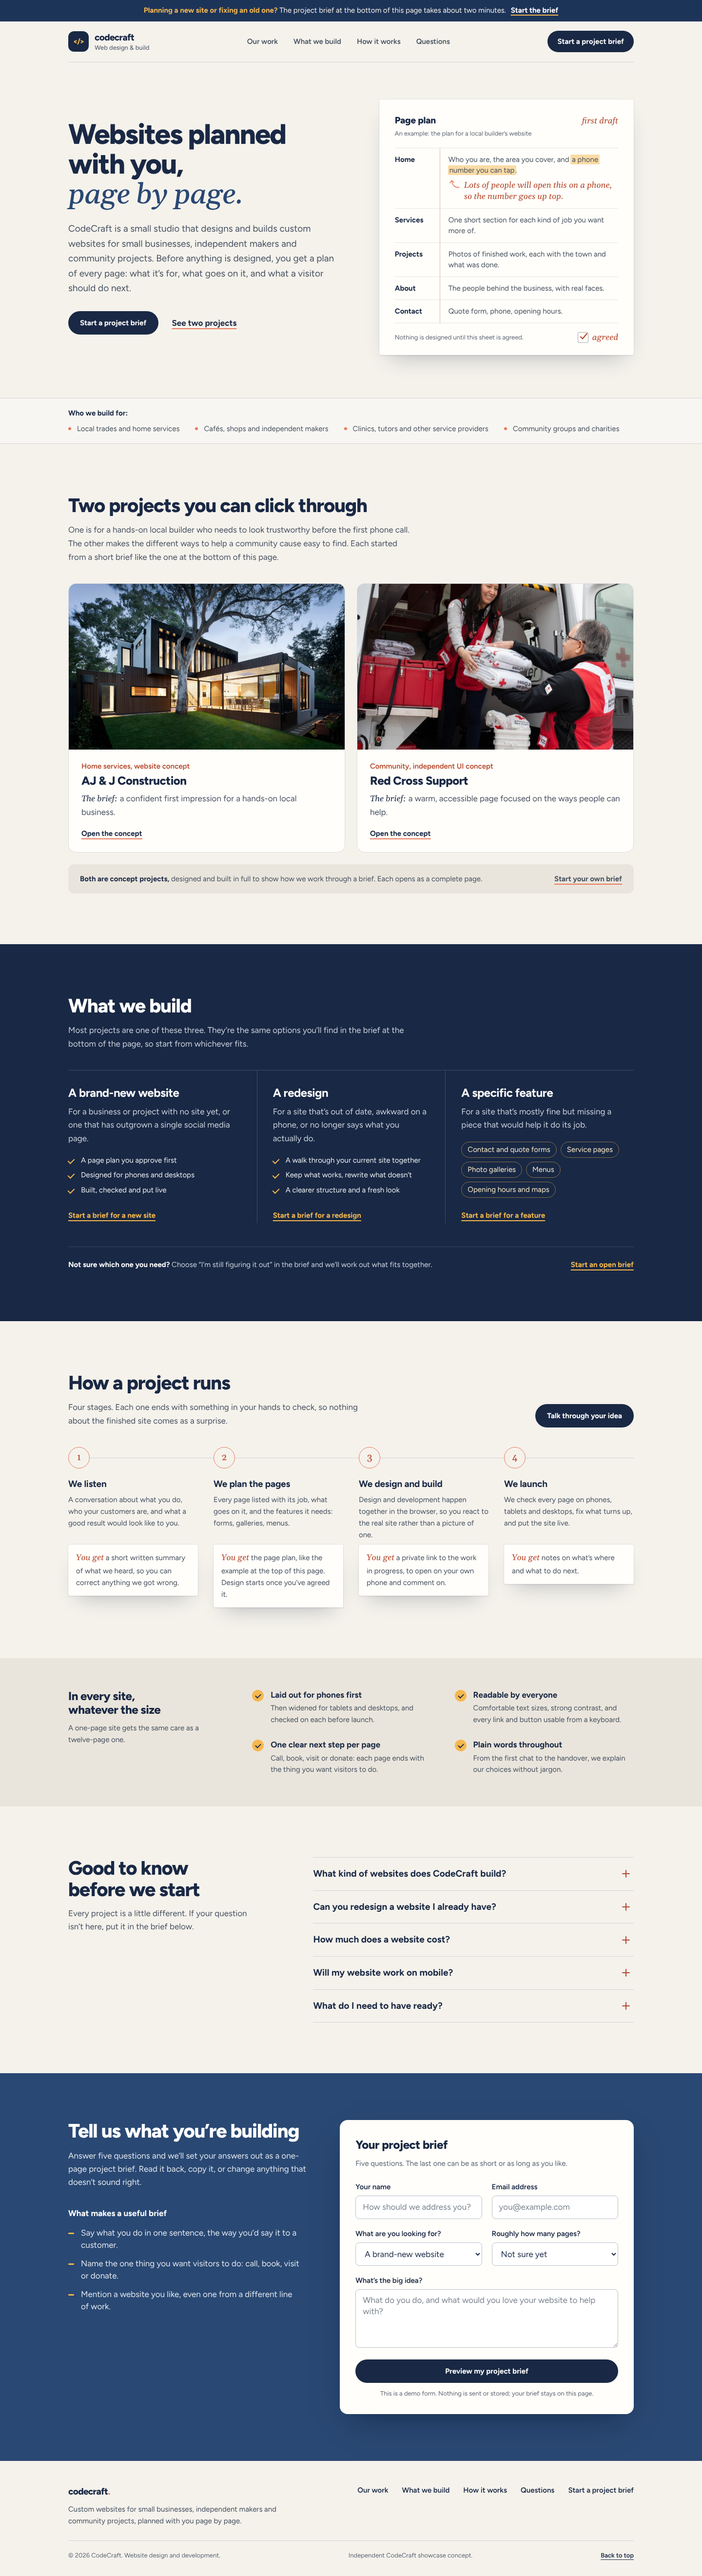
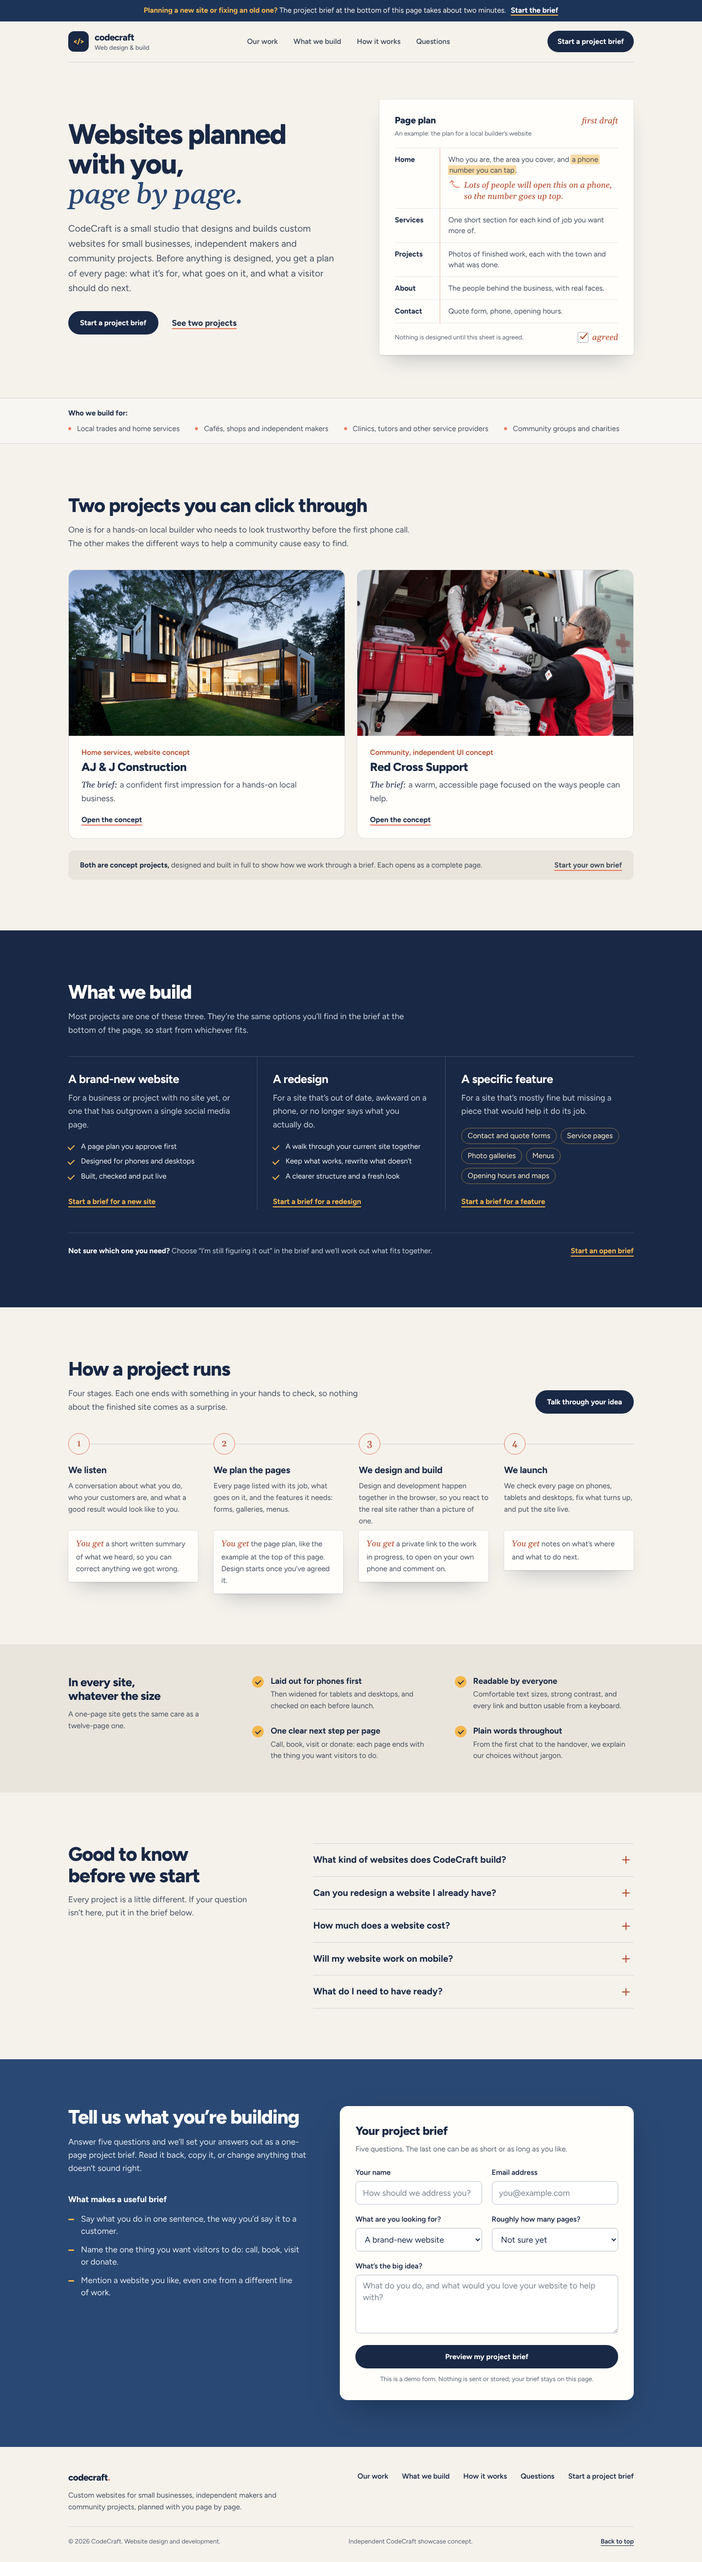
Add final skill v1.1 (Opus 5.5) output and renders for Scenario E
Claude-Session: https://claude.ai/code/session_01BhhYCwLB6o2ge2VEhVYyYB

diff --git a/evaluation/scenarios/A/skilled-v11-opus/index.html b/evaluation/scenarios/A/skilled-v11-opus/index.html
@@ -67,7 +67,7 @@ body{
 }
 a{color:inherit}
 p{margin:0}
-h1,h2,h3{margin:0;font-weight:600;font-stretch:118%;letter-spacing:-.015em;line-height:1.08}
+h1,h2,h3{margin:0;font-weight:600;font-stretch:118%;letter-spacing:-.015em;line-height:1.08;text-wrap:balance}
 .mono{font-family:var(--mono);font-stretch:87.5%;font-variant-numeric:tabular-nums}
 .num{font-variant-numeric:tabular-nums}
 .wrap{max-width:var(--wrap);margin:0 auto;padding:0 var(--gutter)}
@@ -86,8 +86,8 @@ h1,h2,h3{margin:0;font-weight:600;font-stretch:118%;letter-spacing:-.015em;line-
 .btn-primary{background:var(--accent);color:var(--accent-ink)}
 .btn-primary:hover{background:var(--accent-hover)}
 .btn-primary:active{background:#7bbcf0}
-.btn-line{border-color:#38404b;color:var(--text);background:transparent}
-.btn-line:hover{background:var(--raised);border-color:#4a5360}
+.btn-line{border-color:#4d5663;color:var(--text);background:transparent}
+.btn-line:hover{background:var(--raised);border-color:#67717d}
 .btn-line:active{background:var(--surface)}
 .btn-sm{min-height:40px;padding:0 16px}
 .textlink{text-decoration:underline;text-decoration-color:rgba(140,203,255,.6);text-underline-offset:4px;text-decoration-thickness:1px;transition:text-decoration-color .18s}
@@ -195,13 +195,13 @@ table.rules{width:100%;border-collapse:collapse;font-size:15px}
 .field{display:inline-flex;align-items:center;gap:8px;color:var(--muted)}
 .field input,.field select{
   font:inherit;font-family:var(--mono);font-stretch:87.5%;font-size:15px;color:var(--text);background:var(--bg);
-  border:1px solid #38404b;border-radius:4px;height:40px;padding:0 10px;transition:border-color .18s;
+  border:1px solid #67717d;border-radius:4px;height:40px;padding:0 10px;transition:border-color .18s;
 }
 .field input{width:96px;font-variant-numeric:tabular-nums;text-align:right}
 .field select{font-family:var(--display);font-stretch:100%;padding-right:30px;appearance:none;-webkit-appearance:none;
   background-image:linear-gradient(45deg,transparent 50%,var(--muted) 50%),linear-gradient(135deg,var(--muted) 50%,transparent 50%);
   background-position:right 14px top 17px,right 9px top 17px;background-size:5px 5px,5px 5px;background-repeat:no-repeat;min-width:140px}
-.field input:hover,.field select:hover{border-color:#4f5966}
+.field input:hover,.field select:hover{border-color:#8d97a3}
 .field input:focus-visible,.field select:focus-visible{outline:2px solid var(--accent);outline-offset:1px;border-color:var(--accent)}
 .field input[aria-invalid="true"]{border-color:var(--red)}
 .gauge{position:relative;height:6px;width:100%;min-width:140px;background:var(--raised);border-radius:2px;margin:6px 0 10px}
@@ -292,6 +292,22 @@ table.rules{width:100%;border-collapse:collapse;font-size:15px}
   .nav{gap:20px}
 }
 
+/* ---------- Alert rules restack (tablet and phone) ---------- */
+@media (max-width: 960px){
+  table.rules,table.rules tbody,table.rules tr,table.rules th,table.rules td{display:block}
+  table.rules thead{position:absolute;width:1px;height:1px;overflow:hidden;clip:rect(0 0 0 0)}
+  table.rules tr{display:grid;grid-template-columns:1fr 1fr;gap:14px 32px;padding:20px 24px;border-bottom:1px solid var(--line-soft)}
+  table.rules tbody tr:last-child{border-bottom:0}
+  .rules th,.rules td{padding:0;border:0}
+  .rules td.c-p95{text-align:right}
+  .rules td.c-thr .field,.rules td.c-dest .field{display:flex;justify-content:space-between;width:100%}
+  .rules td.c-thr .field::before{content:"Alert when p95 is above";color:var(--muted);margin-right:auto}
+  .rules td.c-dest .field::before{content:"Send to";color:var(--muted);margin-right:auto}
+  .rules td.c-p95::before{content:"p95 ";color:var(--muted);font-family:var(--display);font-stretch:100%}
+  .rules td.c-status{grid-column:1 / -1}
+  .gauge{min-width:0}
+}
+
 /* ---------- Phone ---------- */
 @media (max-width: 760px){
   :root{--gutter:16px}
@@ -325,20 +341,8 @@ table.rules{width:100%;border-collapse:collapse;font-size:15px}
   .section-head{margin-bottom:28px}
   h2,.section-head h2,.closing h2{font-size:28px}
   .section-head h2,.section-head p{grid-column:1 / -1}
-
-  table.rules,table.rules tbody,table.rules tr,table.rules th,table.rules td{display:block}
-  table.rules thead{position:absolute;width:1px;height:1px;overflow:hidden;clip:rect(0 0 0 0)}
-  table.rules tr{display:grid;grid-template-columns:1fr auto;gap:12px 12px;padding:18px 16px;border-bottom:1px solid var(--line-soft)}
-  table.rules tbody tr:last-child{border-bottom:0}
-  .rules th,.rules td{padding:0;border:0}
-  .rules td.c-p95{text-align:right}
   .rules td.c-thr,.rules td.c-dest{grid-column:1 / -1}
-  .rules td.c-thr .field,.rules td.c-dest .field{display:flex;justify-content:space-between;width:100%}
-  .rules td.c-thr .field::before{content:"Alert when p95 is above";color:var(--muted)}
-  .rules td.c-dest .field::before{content:"Send to";color:var(--muted)}
-  .rules td.c-p95::before{content:"p95 ";color:var(--muted);font-family:var(--display);font-stretch:100%}
-  .rules td.c-status{grid-column:1 / -1}
-  .gauge{min-width:0}
+  table.rules tr{padding:18px 16px}
 
   .band{margin-top:88px}
   .install{padding:64px 0}
@@ -693,6 +697,23 @@ table.rules{width:100%;border-collapse:collapse;font-size:15px}
   let current = 'checkout';
   let geom = null;
 
+  // Size the deploy flag to its text; the incident label shares the flag row,
+  // so shorten or hide it rather than let it collide with the flag.
+  function fitLabels() {
+    if (!geom) return;
+    try {
+      const tw = svg.querySelector('#flag-tx').getComputedTextLength();
+      svg.querySelector('#flag-bg').setAttribute('width', (tw + 14).toFixed(1));
+      const il = svg.querySelector('#inc-label');
+      if (!il) return;
+      const room = geom.x(INC[1]) - (geom.x(DEPLOY) + tw + 14) - 10;
+      il.style.display = '';
+      il.textContent = 'Incident 08:12–08:47';
+      if (il.getComputedTextLength() > room) il.textContent = '08:12–08:47';
+      if (il.getComputedTextLength() > room) il.style.display = 'none';
+    } catch (e) {}
+  }
+
   function pathFrom(arr, x, y) {
     return arr.map((v, i) => (i ? 'L' : 'M') + x(i).toFixed(1) + ' ' + y(v).toFixed(1)).join('');
   }
@@ -785,18 +806,7 @@ table.rules{width:100%;border-collapse:collapse;font-size:15px}
     </g>`;
 
     svg.innerHTML = `<title id="chart-desc"></title>` + g;
-    const flagTx = svg.querySelector('#flag-tx');
-    try {
-      const tw = flagTx.getComputedTextLength();
-      svg.querySelector('#flag-bg').setAttribute('width', (tw + 14).toFixed(1));
-      // incident label shares the flag row; shorten or drop it rather than collide with the flag
-      const il = svg.querySelector('#inc-label');
-      if (il) {
-        const room = x(INC[1]) - (xd + tw + 14) - 10;
-        if (il.getComputedTextLength() > room) il.textContent = '08:12–08:47';
-        if (il.getComputedTextLength() > room) il.remove();
-      }
-    } catch (e) {}
+    fitLabels();
 
     svg.querySelector('#chart-desc').textContent = ep.incident
       ? `Latency and 5xx rate for ${ep.method} ${ep.path}, Oct 14, 07:40 to 09:20. Deploy #4821 is marked at 08:12. During the incident from 08:12 to 08:47, p95 and p99 latency rise and the 5xx rate climbs well above its baseline, then both return to normal.`
@@ -854,7 +864,7 @@ table.rules{width:100%;border-collapse:collapse;font-size:15px}
       incident.innerHTML = `<span class="sev" aria-hidden="true"></span><div><strong>Elevated 5xx on /v1/checkout</strong><span class="meta">Oct 14, 08:12–08:47, 35 min. Caused by <span class="mono">deploy #4821</span>.</span></div>`;
     } else {
       incident.className = 'incident calm';
-      incident.innerHTML = `<span class="sev" aria-hidden="true"></span><div><strong>No incident on ${ep.method} ${ep.path} in this window</strong><span class="meta"><span class="mono">deploy #4821</span> is marked for reference.</span></div>`;
+      incident.innerHTML = `<span class="sev" aria-hidden="true"></span><div><strong>No incident on ${ep.method} ${ep.path} in this window</strong><span class="meta">Marked for reference: <span class="mono">deploy #4821</span>.</span></div>`;
     }
     render(key, 'switch');
   }
@@ -878,7 +888,13 @@ table.rules{width:100%;border-collapse:collapse;font-size:15px}
     lastW = w;
     render(current, first ? 'intro' : false);
   });
-  ro.observe(wrap);
+  // First draw waits for the fonts (labels are measured), but never longer than 1.5 s.
+  let started = false;
+  const start = () => { if (!started) { started = true; ro.observe(wrap); } };
+  if (document.fonts && document.fonts.ready) {
+    document.fonts.ready.then(() => { if (started) fitLabels(); else start(); });
+  }
+  setTimeout(start, 1500);
 
   /* ---------- Alert thresholds ---------- */
   document.querySelectorAll('table.rules tbody tr').forEach(row => {

diff --git a/evaluation/scenarios/C/skilled-v11-opus/index.html b/evaluation/scenarios/C/skilled-v11-opus/index.html
@@ -403,8 +403,16 @@
     .rod li { width: 26px; height: 26px; }
     .hint-blocks .sign { padding-bottom: 30px; }
     .regroup { gap: 8px; }
+    .sheet, .board.mini .sheet { grid-template-columns: 40px 1fr; align-items: start; padding: 16px; gap: 12px; }
+    .sheet-icon, .board.mini .sheet-icon { width: 40px; height: 40px; }
+    .sheet-icon svg, .board.mini .sheet-icon svg { width: 24px; height: 24px; }
+    .sheet-title { font-size: 23px; }
   }
   @media (max-width: 400px) {
+    .mode { grid-template-columns: 76px minmax(0, 1fr); column-gap: 12px; padding: 12px 46px 12px 12px; }
+    .mode-art { height: 64px; }
+    .mode-name { font-size: 25px; }
+    .mode-tick { right: 12px; width: 28px; height: 28px; }
     .home-btn .label-word { display: none; }
     .home-btn { padding: 0 14px; }
     .rod li { width: 24px; height: 24px; }
@@ -863,11 +871,21 @@
     state.tries = 0; state.solved = false;
   }
 
-  function showSheet(kind, title, body, extra, actions) {
+  function regroupHTML(ao, bo) {
+    var sum = ao + bo;
+    function g(n, cap) { return '<div class="num-group"><span class="blocks">' + blocksSVG(n, 0.6) + '</span><span class="num-cap">' + cap + "</span></div>"; }
+    return '<div class="regroup" aria-hidden="true">' +
+      g(ao, '<span class="o">' + ao + (ao === 1 ? " one" : " ones") + "</span>") + '<span class="sign">+</span>' +
+      g(bo, '<span class="o">' + bo + (bo === 1 ? " one" : " ones") + "</span>") + '<span class="sign">=</span>' +
+      g(sum, '<span class="t">1 ten</span> <span class="o">' + (sum - 10) + (sum - 10 === 1 ? " one" : " ones") + "</span>") + "</div>";
+  }
+
+  function showSheet(kind, title, body, extra, actions, below) {
     sheetEl.className = "sheet " + kind + (reduceMotion ? "" : " enter");
     sheetEl.innerHTML =
       '<span class="sheet-icon" aria-hidden="true"><svg><use href="#' + (kind === "right" ? "i-check" : "i-retry") + '"/></svg></span>' +
       '<div><p class="sheet-title">' + title + '</p><p class="sheet-body">' + body + "</p>" + (extra || "") + "</div>" +
+      (below || "") +
       '<div class="sheet-actions">' + actions + "</div>";
     var primary = sheetEl.querySelector("[data-primary]");
     if (primary) primary.focus({ preventScroll: true });
@@ -907,8 +925,12 @@
       btn.querySelector(".mark").innerHTML = '<svg><use href="#i-cross"/></svg>';
       btn.setAttribute("aria-label", v + ", not right");
       var hintAction = hintEl.hidden ? '<button class="block block-plain label-word" type="button" data-act="hint"><svg aria-hidden="true"><use href="#i-blocks"/></svg> Show blocks</button>' : "";
+      var ao = p.a % 10, bo = p.b % 10, d = v - p.answer;
+      var showRegroup = p.op === "+" && ao + bo >= 10 && (d === -10 || Math.abs(d) === 1);
+      helperEl.hidden = true;
       showSheet("wrong", "Not yet. Try again!", explainWrong(p, v), "",
-        hintAction + '<button class="block block-go label-word" type="button" data-primary data-act="retry"><svg aria-hidden="true"><use href="#i-retry"/></svg> Try again</button>');
+        hintAction + '<button class="block block-go label-word" type="button" data-primary data-act="retry"><svg aria-hidden="true"><use href="#i-retry"/></svg> Try again</button>',
+        showRegroup ? regroupHTML(ao, bo) : "");
     }
   }
 
@@ -918,6 +940,7 @@
     var act = b.getAttribute("data-act");
     if (act === "retry" || act === "hint") {
       sheetEl.className = "sheet"; sheetEl.innerHTML = "";
+      helperEl.hidden = false;
       if (act === "hint") { setHint(true); hintEl.scrollIntoView({ block: "nearest", behavior: reduceMotion ? "auto" : "smooth" }); }
       var first = answersEl.querySelector(".answer:not(:disabled)");
       if (first) first.focus({ preventScroll: act === "hint" });
